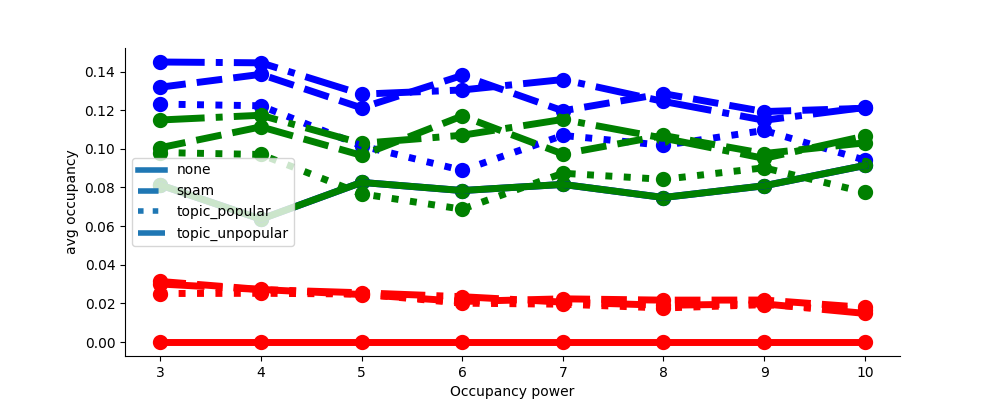
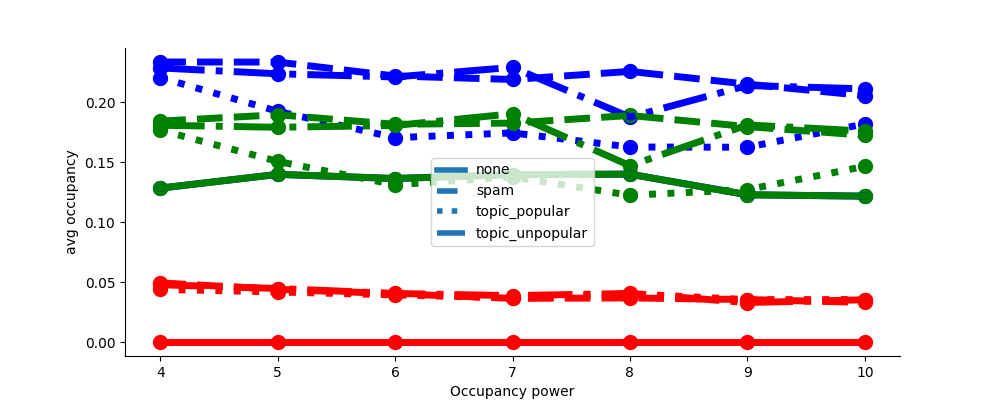
figures

diff --git a/service-discovery/python/table_main.py b/service-discovery/python/table_main.py
@@ -15,8 +15,8 @@ def restore_default():
     malicious_size = 250
     occupancy_power = 5
     ip_id_power = 0.5
-    topic_power = 5
-    attacker_ip_id_num = 5
+    topic_power = 10
+    attacker_ip_id_num = 10
     base_multiplier = 30
 
 
@@ -165,7 +165,7 @@ def run_all():
 
     honest_sizes = [50, 100, 200, 300, 400, 500, 600, 800, 1000, 1500]
     malicious_sizes = [50, 100, 200, 300, 400, 500, 600, 800, 1000, 1500]
-    occupancy_powers = [3, 4, 5, 6, 7, 8, 9, 10]
+    occupancy_powers = [4, 5, 6, 7, 8, 9, 10]
     ip_id_powers = [0.01, 0.05, 0.1, 0.2, 1]
     topic_powers = [1, 5, 10, 20, 50]
     attacker_ip_id_nums = [1, 5, 15, 20, 30, 40, 50]
@@ -333,11 +333,11 @@ def special(input_file = 'dump.csv'):
     ax.legend(custom_lines, ['none(solid)', 'spam(dashed)', 'topic_popular(dotted)', 'topic_unpopular(dashdotted)'])
     plt.show()
 
-runtime = 10000
+runtime = 500000
 
 restore_default()
 #run_single()
 
-#run_all()
+run_all()
 analyze()
 #special('attacks.csv')
